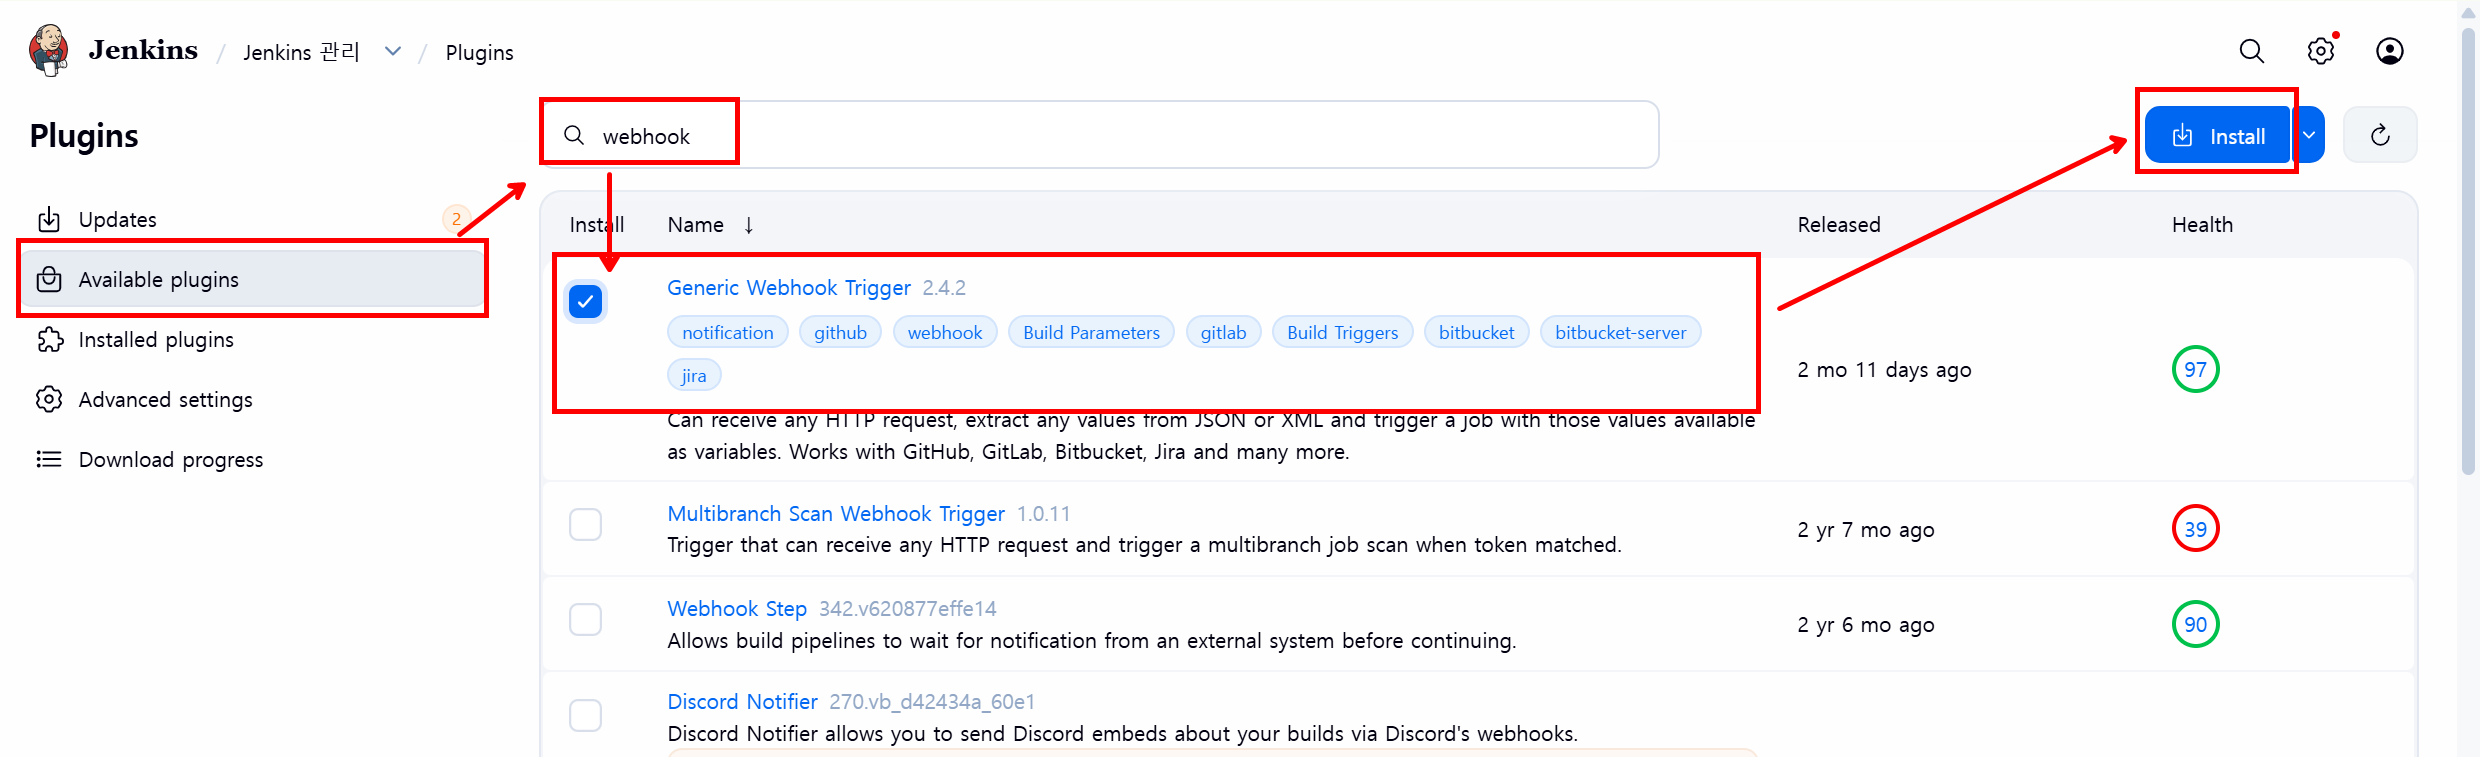
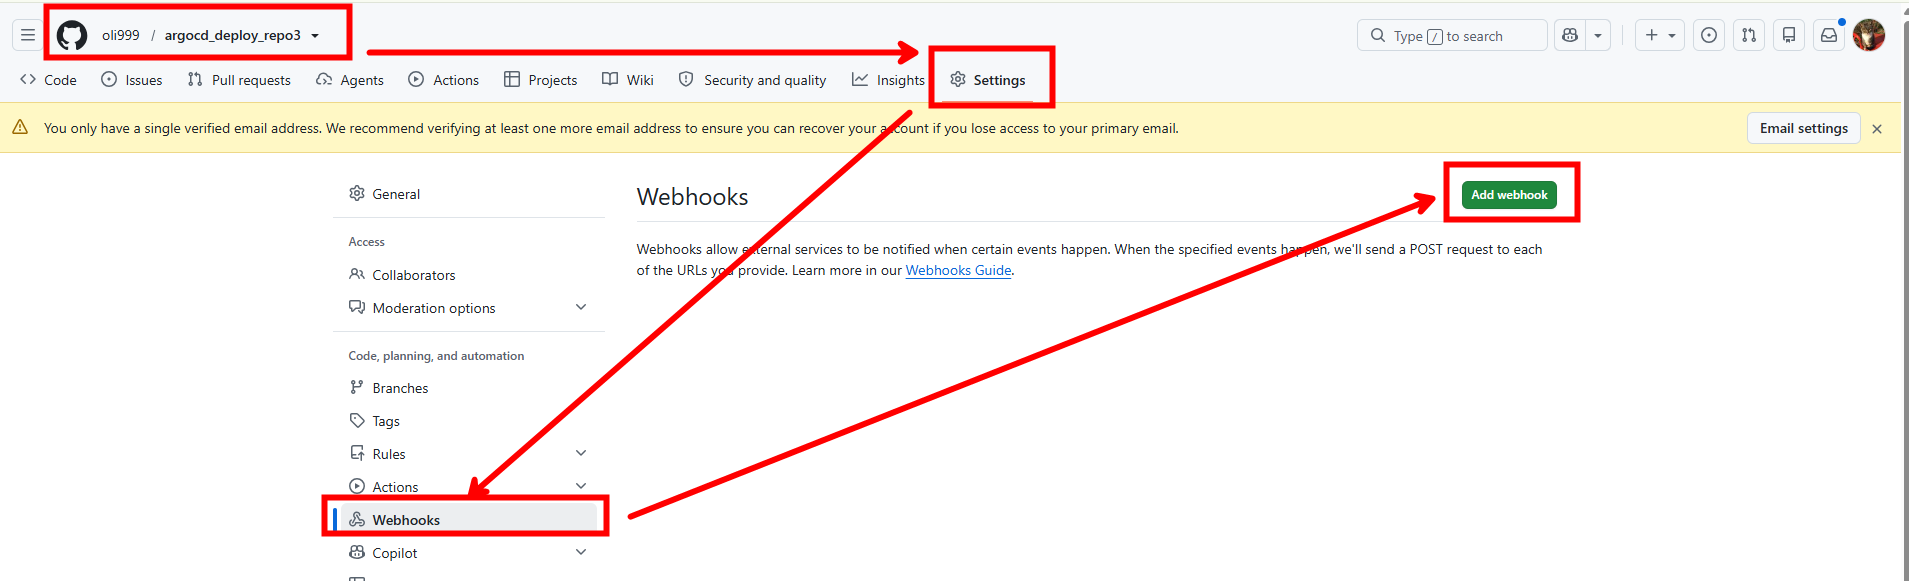
예제 추가함

diff --git a/example/eks_all_in_one/05_jenkins/memo.md b/example/eks_all_in_one/05_jenkins/memo.md
@@ -30,5 +30,27 @@
 <img src="./assets/image16.png">
 <img src="./assets/image17.png">
 
+### github webhook 설정해서 테스트 하기
 
- 
+<img src="./assets/image18.png">
+<img src="./assets/image19.png">
+<img src="./assets/image20.png">
+<img src="./assets/image21.png">
+<img src="./assets/image22.png">
+<img src="./assets/image23.png">
+
+
+### generic webhook 플러그인 설치후 [ci skip] 을 동작하게 만들기
+> pipe line 이 2번씩 실행되는것을 방지 하기 위해
+
+
+<img src="./assets/image24.png">
+<img src="./assets/image25.png">
+<img src="./assets/image26.png">
+<img src="./assets/image27.png">
+<img src="./assets/image28.png">
+<img src="./assets/image29.png">
+### github webhook 설정 수정 
+
+  <img src="./assets/image30.png">
+  <img src="./assets/image31.png">
